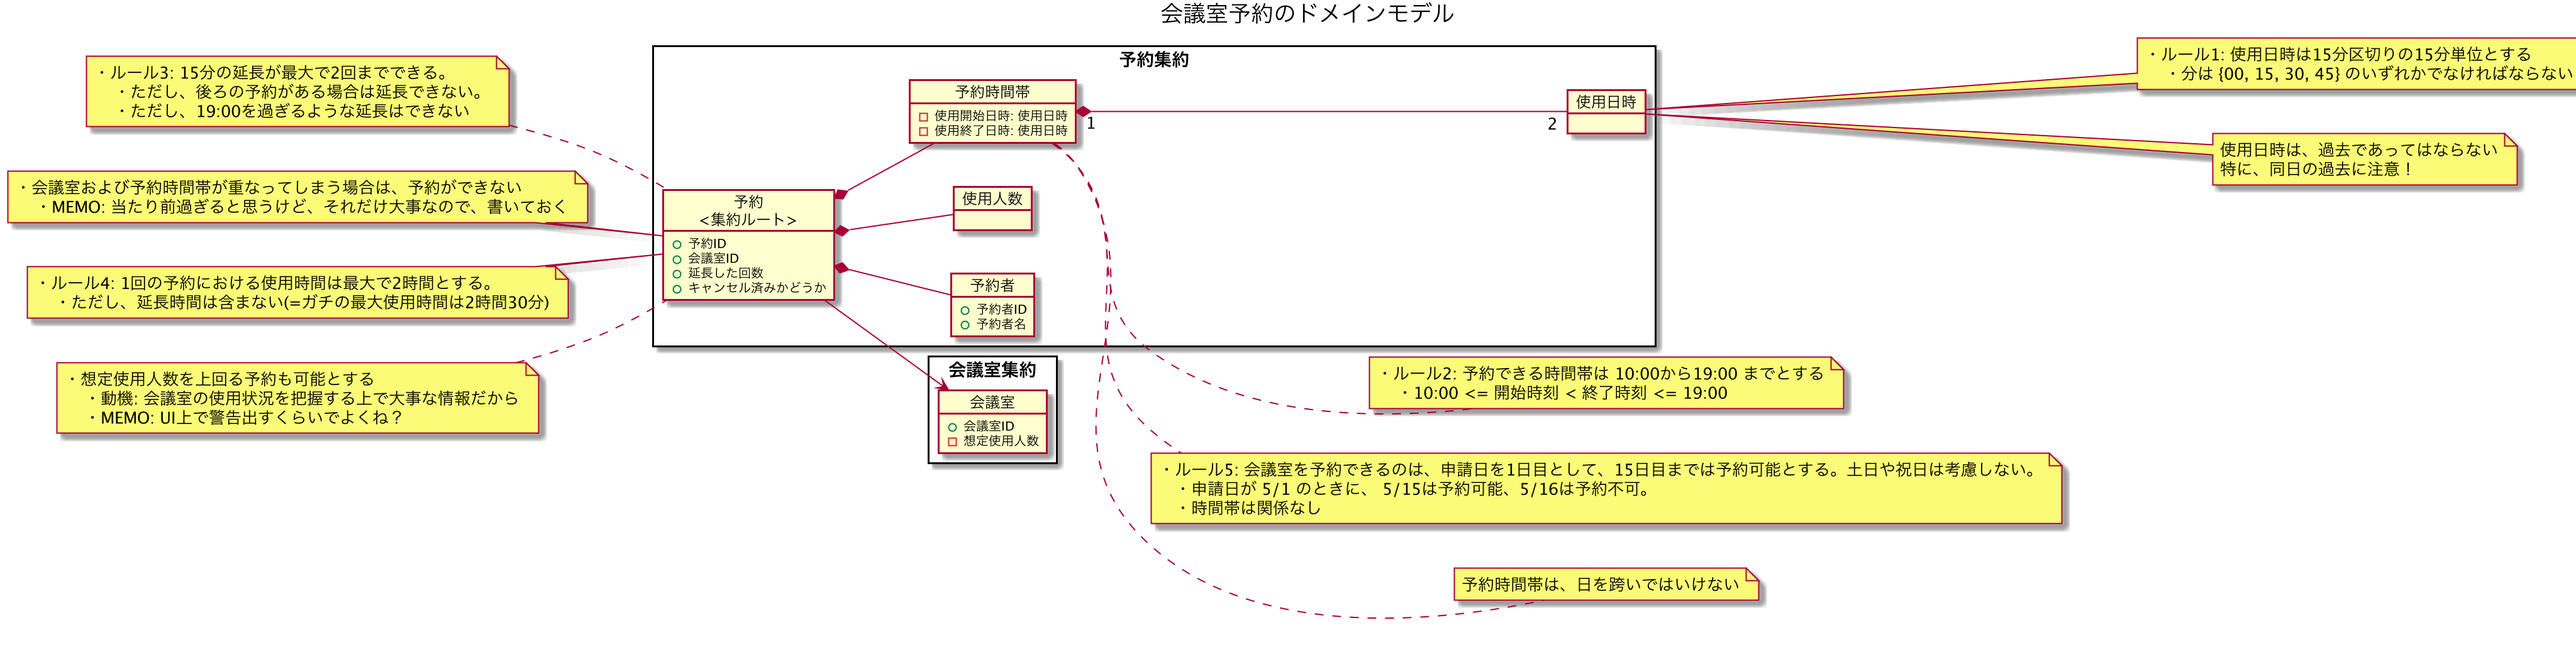
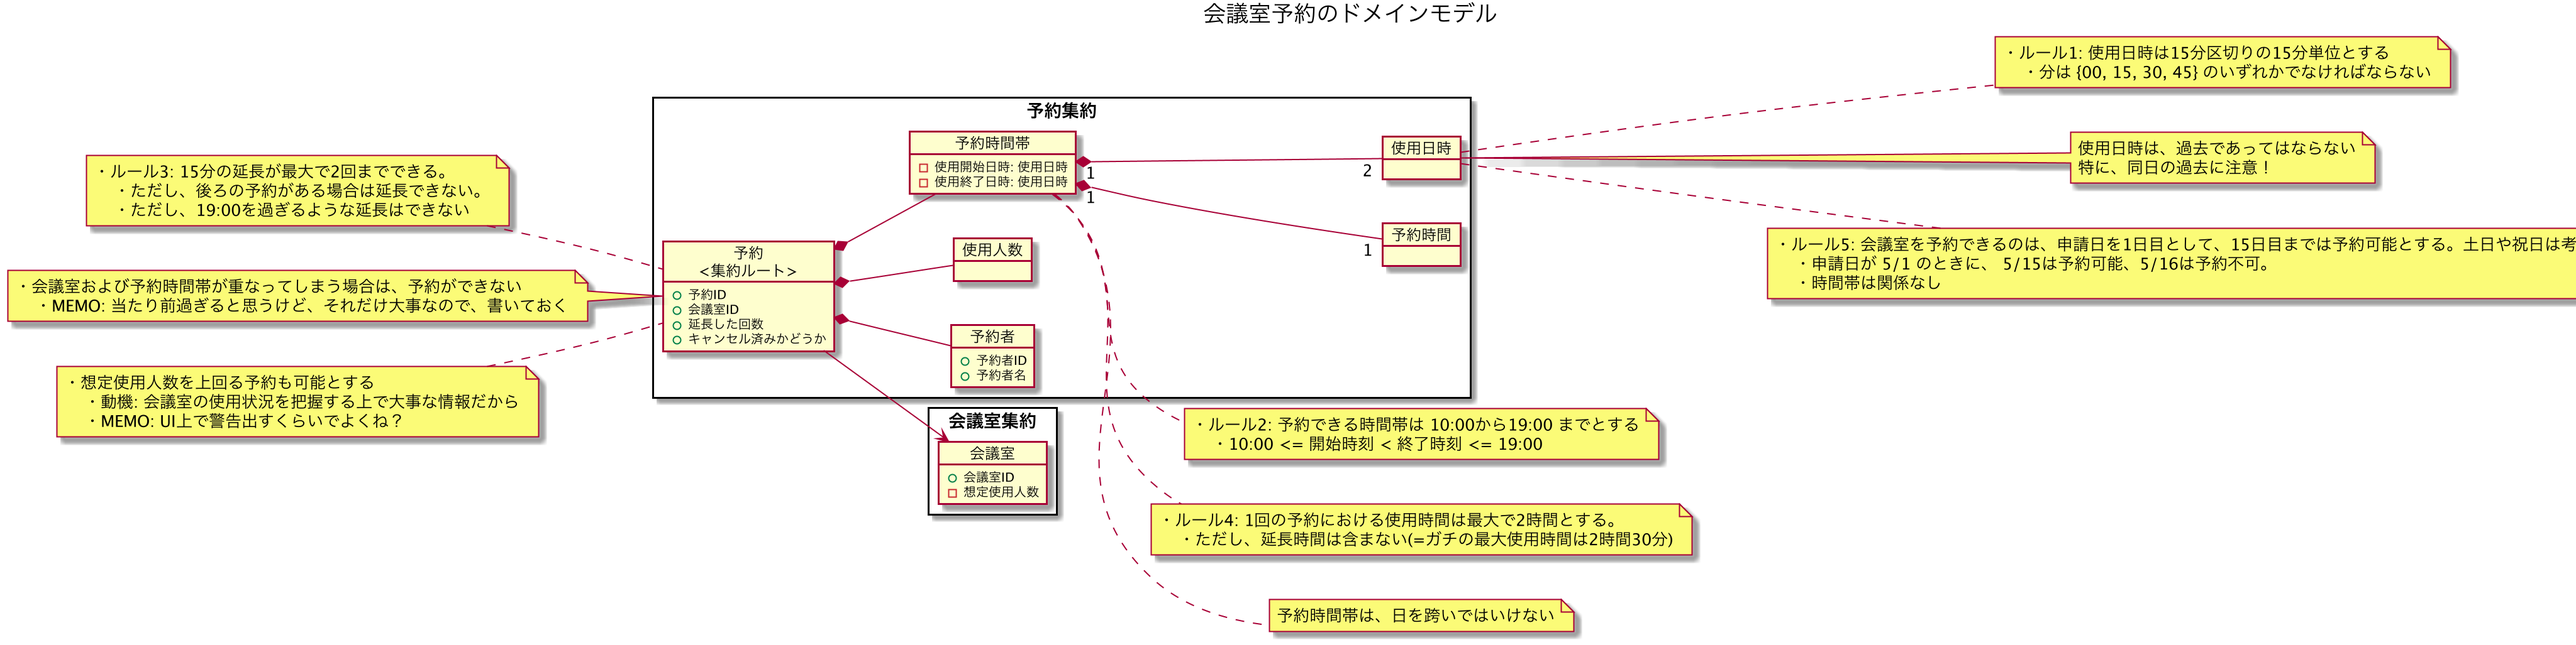
ドメインモデルの更新。ルール4を予約時間帯に移設。「予約時間」という概念を発見したので追加。
- 次回はテストをGREENにするところから！
- ルール4を実装すると、「日をまたいではいけない」も同時に検証されると思う
    - しかし、最終的にルールをどのように集約したり分割するかは実装しきってから考えることにした
    - なので、一番簡単そうな 予約時間 のテストから着手することにした

diff --git a/src/domain/reservation/errors.py b/src/domain/reservation/errors.py
@@ -12,3 +12,6 @@ class 未来過ぎて予約できないよError(Exception):
 
 class 使用日時は過去であってはいけないんだよError(Exception):
     pass
+
+class 予約時間が長すぎError(Exception):
+    pass
